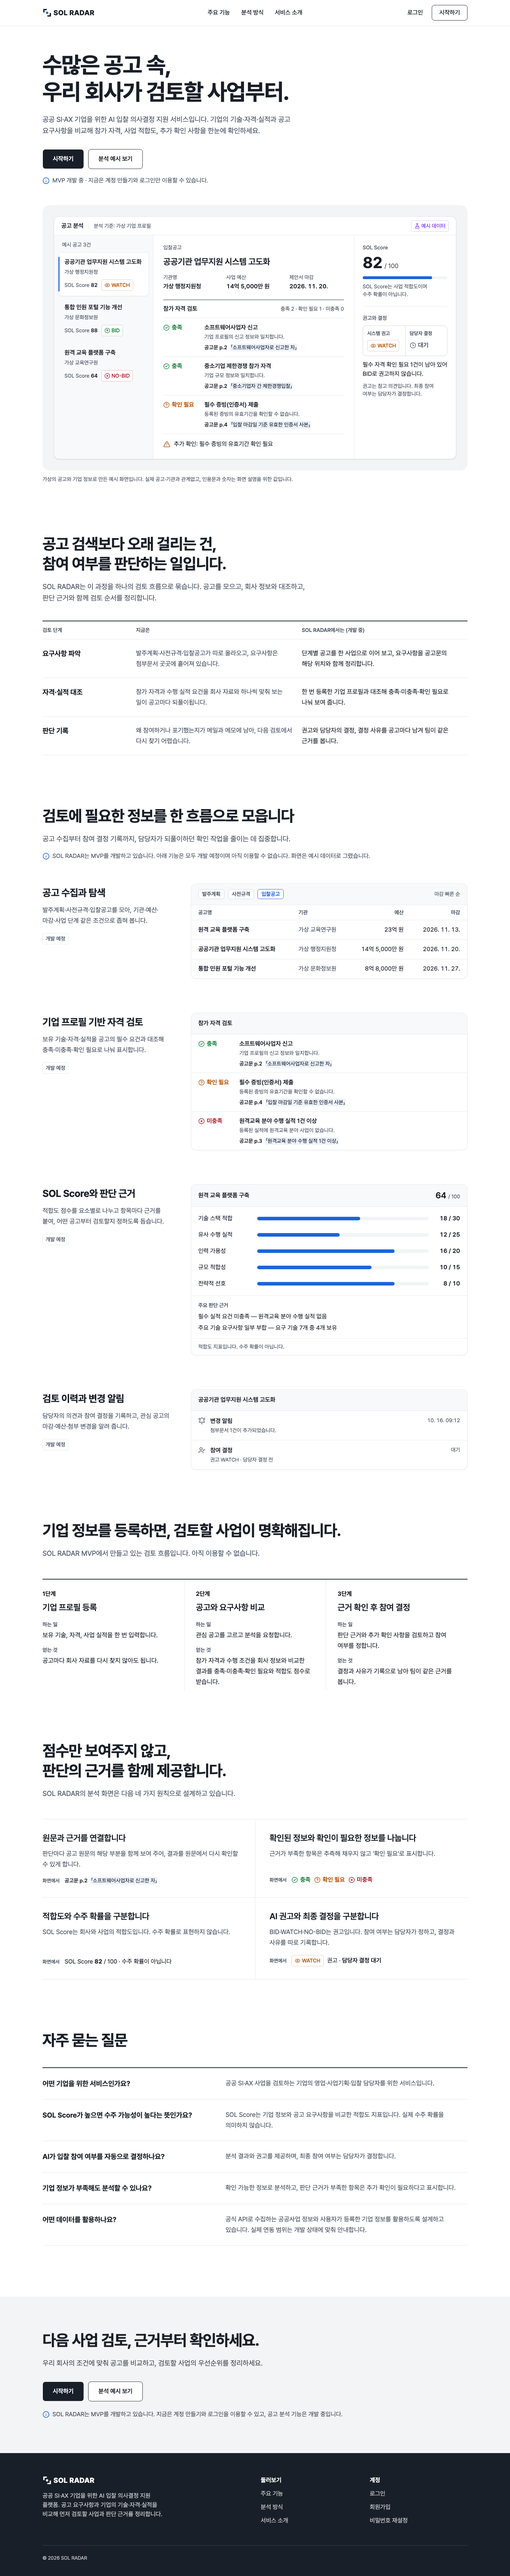
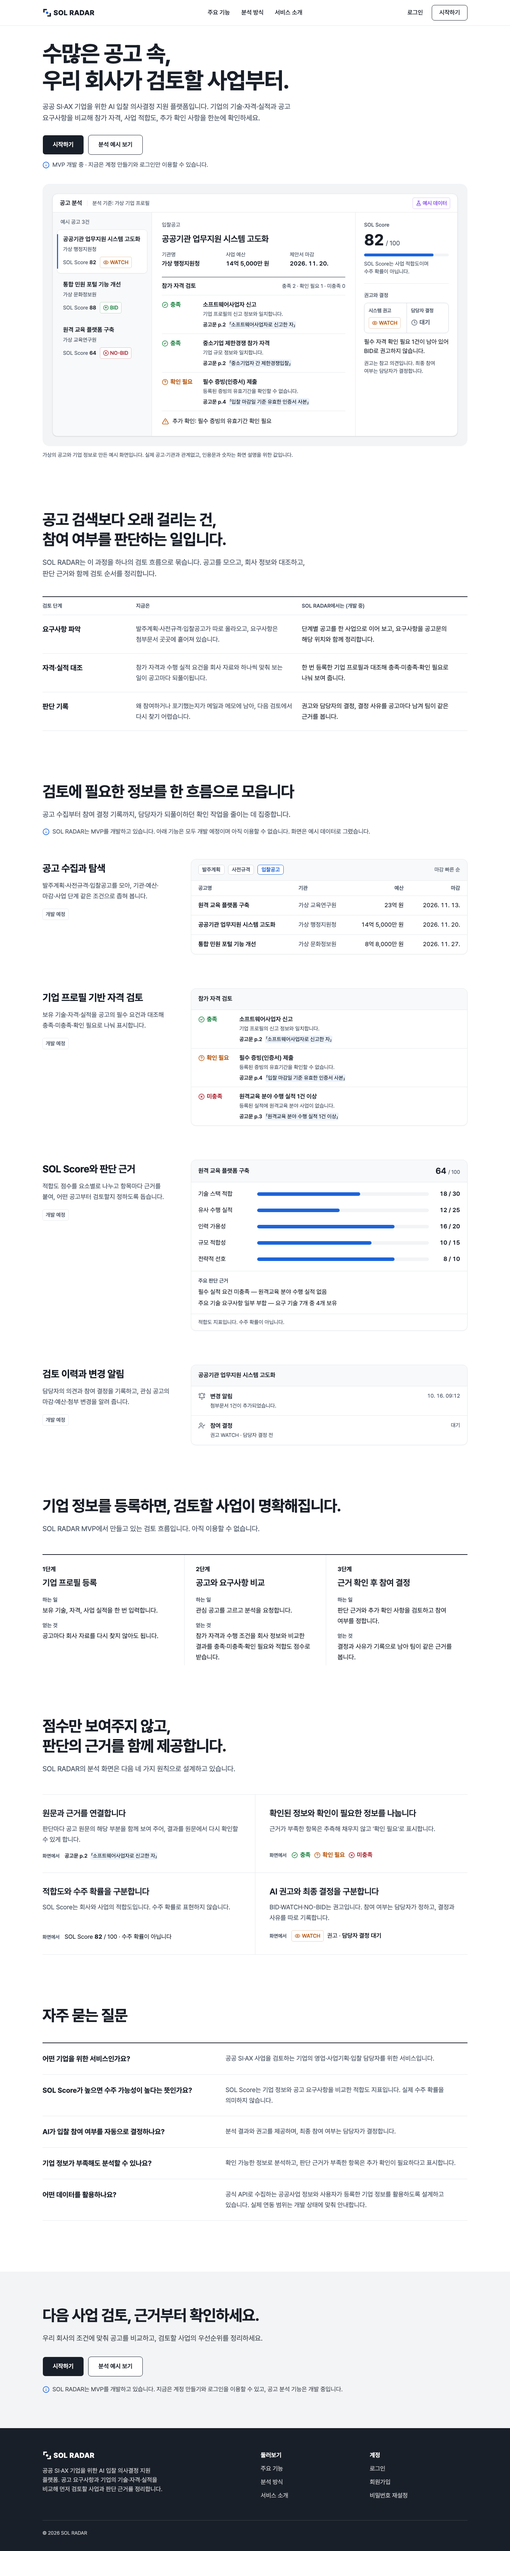
fix(web): 1280×800 첫 화면에 점수 고지, 히어로 문구 플랫폼
사용자 결정(U5~U7).
- 히어로 여백을 줄여(pt-10·pb-10, 설명 mt-5, 버튼 mt-8, 안내 mt-4,
  무대 p-7) 13인치 노트북 첫 화면에도 "수주 확률이 아닙니다"가 보인다
- 히어로 "지원 서비스입니다" → "지원 플랫폼입니다"(바닥글과 통일)
- 1440×900·1280×800 고지 전체 보임 시험, 디자인 문서·증거 갱신

diff --git a/web/components/landing/hero.tsx b/web/components/landing/hero.tsx
@@ -5,22 +5,23 @@ import { DEMO_HREF } from "@/components/landing/landing-links";
 import { buttonVariants } from "@/components/ui/button";
 
 // 첫 화면의 머리 구역. 미리보기(ProductPreviewSection)가 바로 아래에 붙어 화면의 중심이 된다.
+// 위아래 여백은 13인치 노트북(1280×800) 첫 화면에도 판의 점수 고지까지 들어오게 잡았다.
 // 제목은 한 줄에 다 들어가지 않아 줄을 직접 나눈다 — 자동 줄바꿈은 "사업부터." 만 다음 줄로 떨어뜨린다.
 export function Hero({ startHref }: { startHref: string }) {
   return (
-    <section aria-labelledby="hero-title" className="pt-18 pb-14">
+    <section aria-labelledby="hero-title" className="pt-10 pb-10">
       <div className="mx-auto w-full max-w-320 px-10 motion-safe:animate-in motion-safe:duration-500 motion-safe:fade-in motion-safe:slide-in-from-bottom-2">
         <h1 id="hero-title" className="type-display text-foreground">
           수많은 공고 속,
           <br />
           우리 회사가 검토할 사업부터.
         </h1>
-        <p className="mt-6 max-w-190 type-lead text-pretty text-muted-foreground">
-          공공 SI·AX 기업을 위한 AI 입찰 의사결정 지원 서비스입니다. 기업의 기술·자격·실적과 공고
+        <p className="mt-5 max-w-190 type-lead text-pretty text-muted-foreground">
+          공공 SI·AX 기업을 위한 AI 입찰 의사결정 지원 플랫폼입니다. 기업의 기술·자격·실적과 공고
           요구사항을 비교해 참가 자격, 사업 적합도, 추가 확인 사항을 한눈에 확인하세요.
         </p>
         {/* 주요 버튼(default)은 시작하기 하나다. 분석 예시 보기는 테두리 버튼으로 낮춘다. */}
-        <div className="mt-9 flex items-center gap-3">
+        <div className="mt-8 flex items-center gap-3">
           <Link href={startHref} className={buttonVariants({ size: "xl" })}>
             시작하기
           </Link>
@@ -34,7 +35,7 @@ export function Hero({ startHref }: { startHref: string }) {
           </Link>
         </div>
         {/* 시작하기 바로 곁에서 지금 쓸 수 있는 범위를 밝힌다. 맨 아래 CTA 의 안내만으로는 첫 화면에서 보이지 않는다. */}
-        <p role="note" className="mt-5 flex items-center gap-2 type-ui-lg text-muted-foreground">
+        <p role="note" className="mt-4 flex items-center gap-2 type-ui-lg text-muted-foreground">
           <InfoIcon aria-hidden className="size-5 shrink-0 text-brand" />
           MVP 개발 중 · 지금은 계정 만들기와 로그인만 이용할 수 있습니다.
         </p>

diff --git a/web/components/landing/product-preview-section.tsx b/web/components/landing/product-preview-section.tsx
@@ -9,10 +9,10 @@ export function ProductPreviewSection() {
         <h2 id="demo-title" className="sr-only">
           공고 분석 예시
         </h2>
-        {/* 히어로와의 간격(56px)은 히어로의 아래 여백이 준다. 분석 예시 보기(/#demo)로 오면 판의 윗변이 머리말 바로 아래에 선다. */}
+        {/* 히어로와의 간격(40px)은 히어로의 아래 여백이 준다. 분석 예시 보기(/#demo)로 오면 판의 윗변이 머리말 바로 아래에 선다. */}
         <figure>
           {/* 회색 무대 위에 흰 창 하나. 무대 위 글자는 흰 창 안에만 둔다(회색 바탕 위 회색 글자 금지). */}
-          <div className="rounded-[20px] bg-muted p-8">
+          <div className="rounded-[20px] bg-muted p-7">
             <ProductPreview />
           </div>
           <figcaption className="mt-3.5 type-label-lg text-muted-foreground">

diff --git a/web/components/landing/product-preview.browser.test.tsx b/web/components/landing/product-preview.browser.test.tsx
@@ -14,7 +14,7 @@ afterEach(() => {
   document.body.replaceChildren();
 });
 
-// 랜딩이 그리는 구역을 그대로 그린다 — 마케팅 단(max-w-320 + px-10)과 회색 무대(p-8)까지 같아야
+// 랜딩이 그리는 구역을 그대로 그린다 — 마케팅 단(max-w-320 + px-10)과 회색 무대(p-7)까지 같아야
 // 판의 가운데 단이 실제 폭이 된다. 낱말 단위 줄바꿈(break-keep)도 랜딩 main 과 같게 둔다.
 const render = async () => {
   const root = createRoot(document.body.appendChild(document.createElement("div")));
